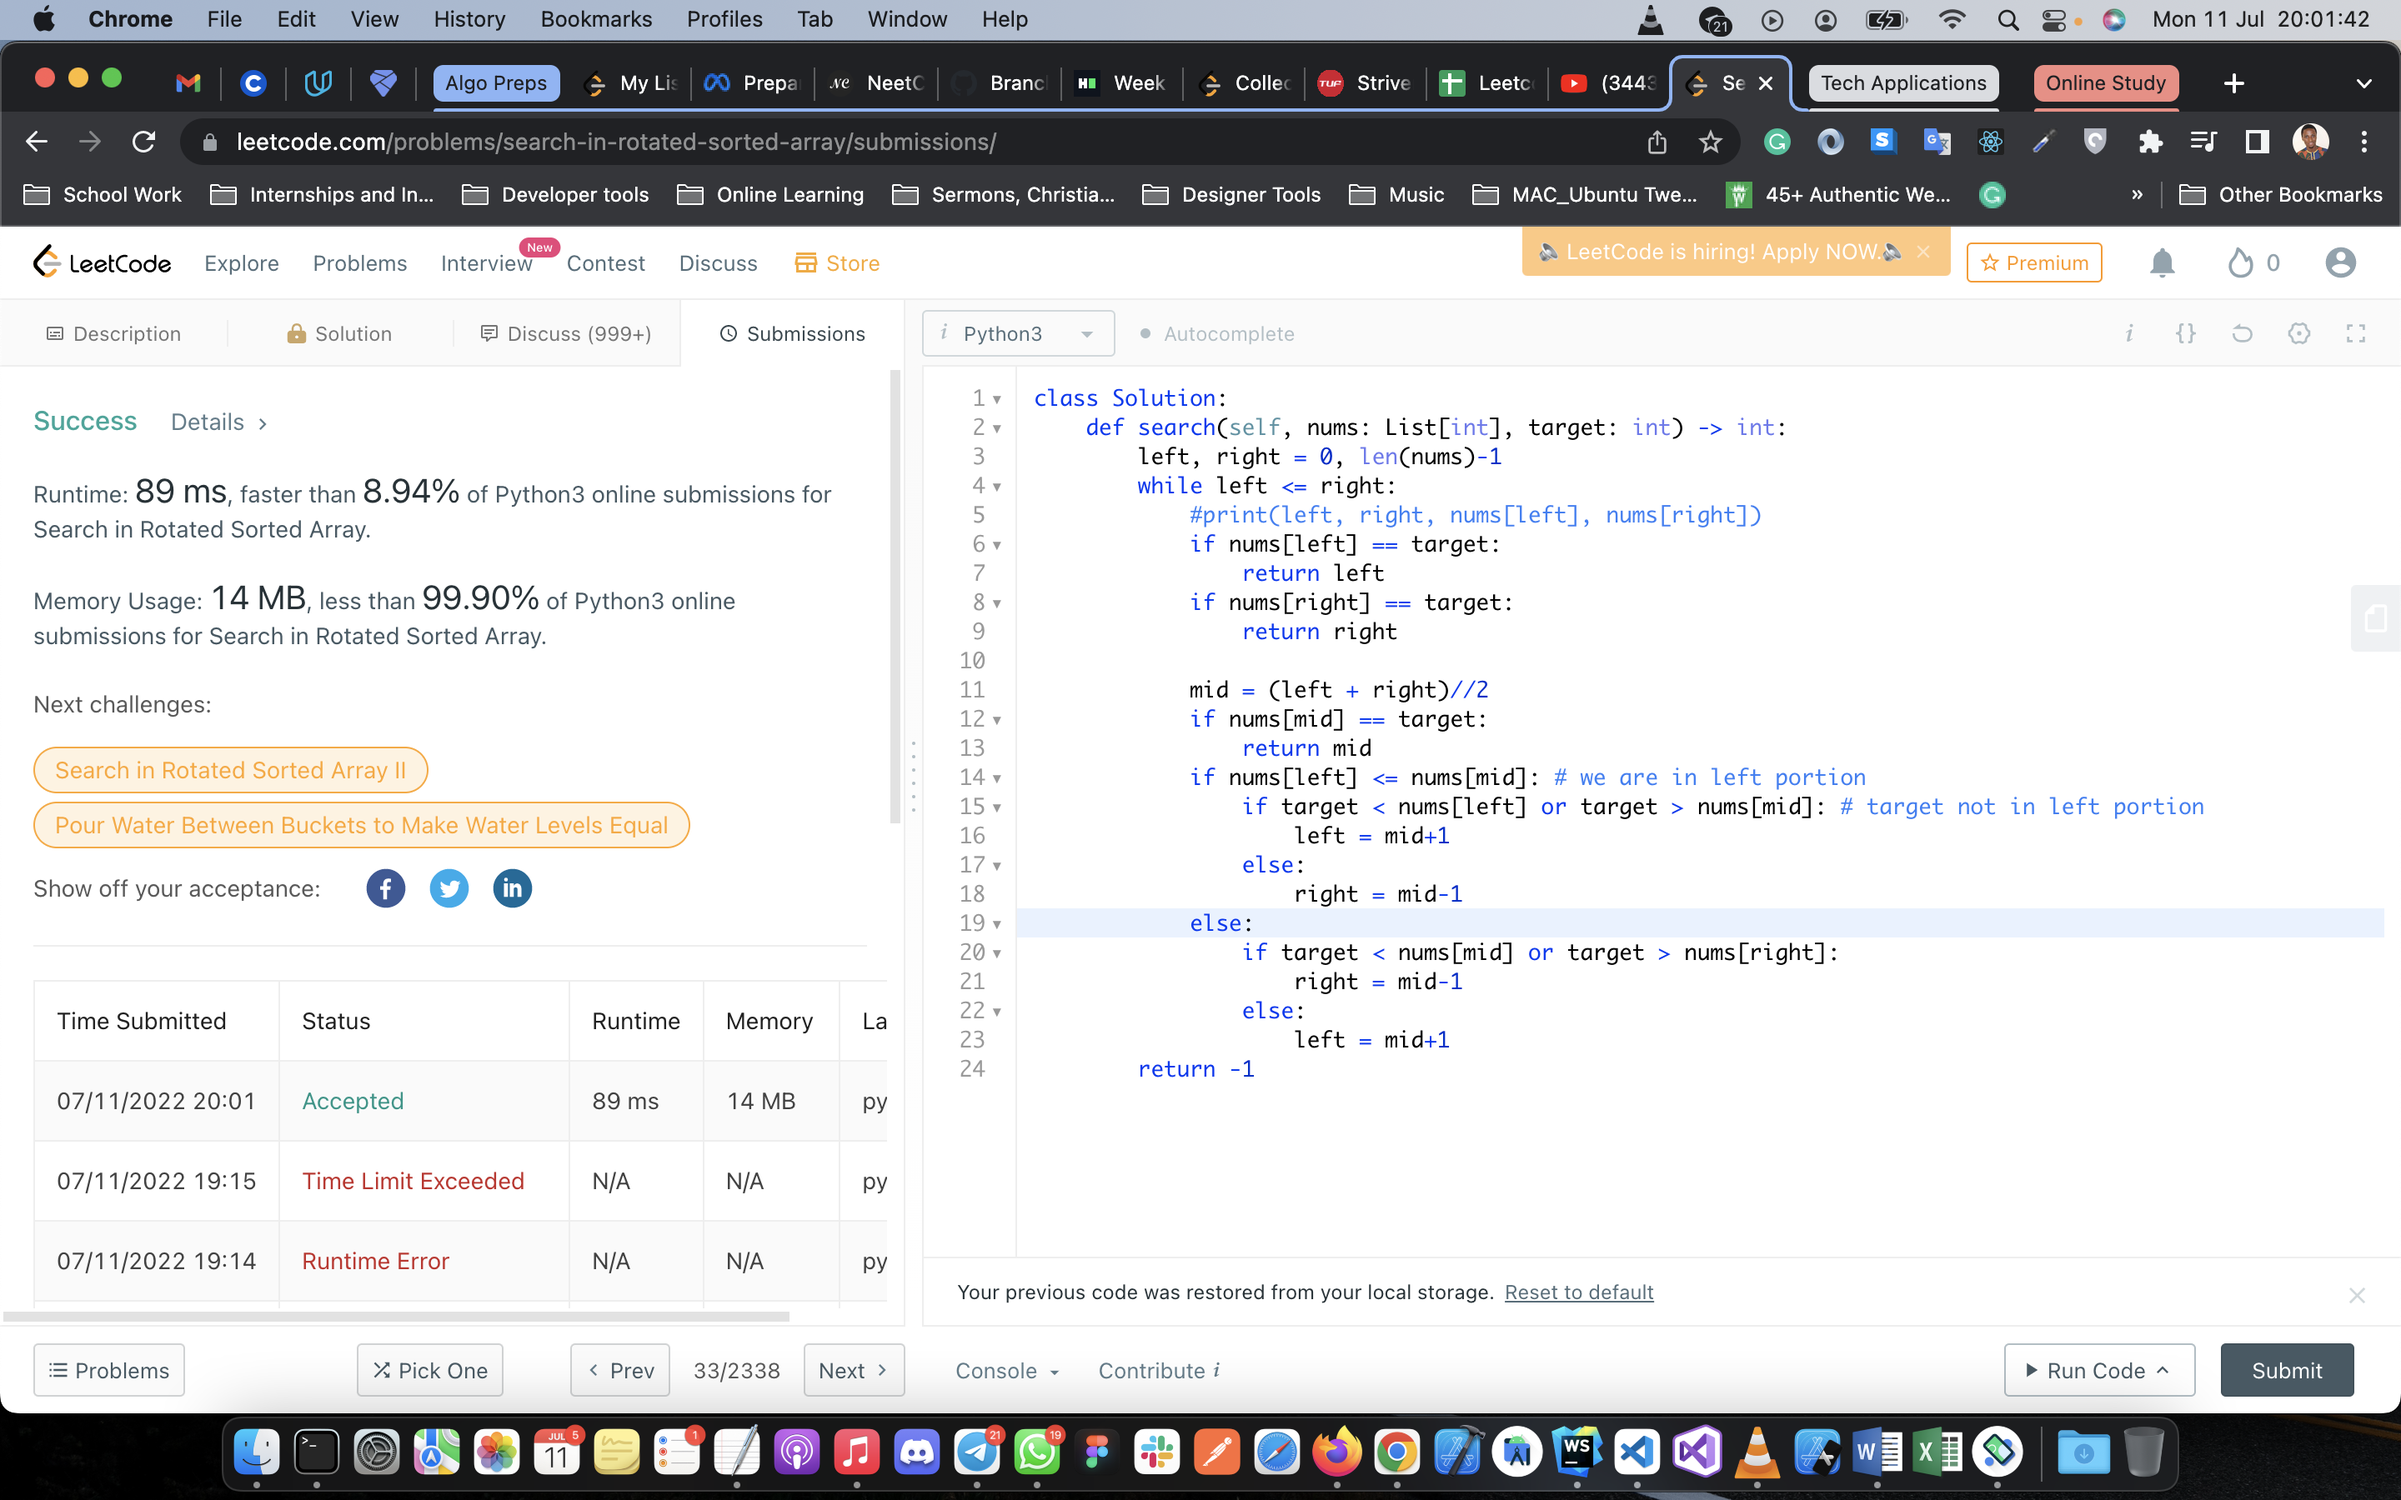
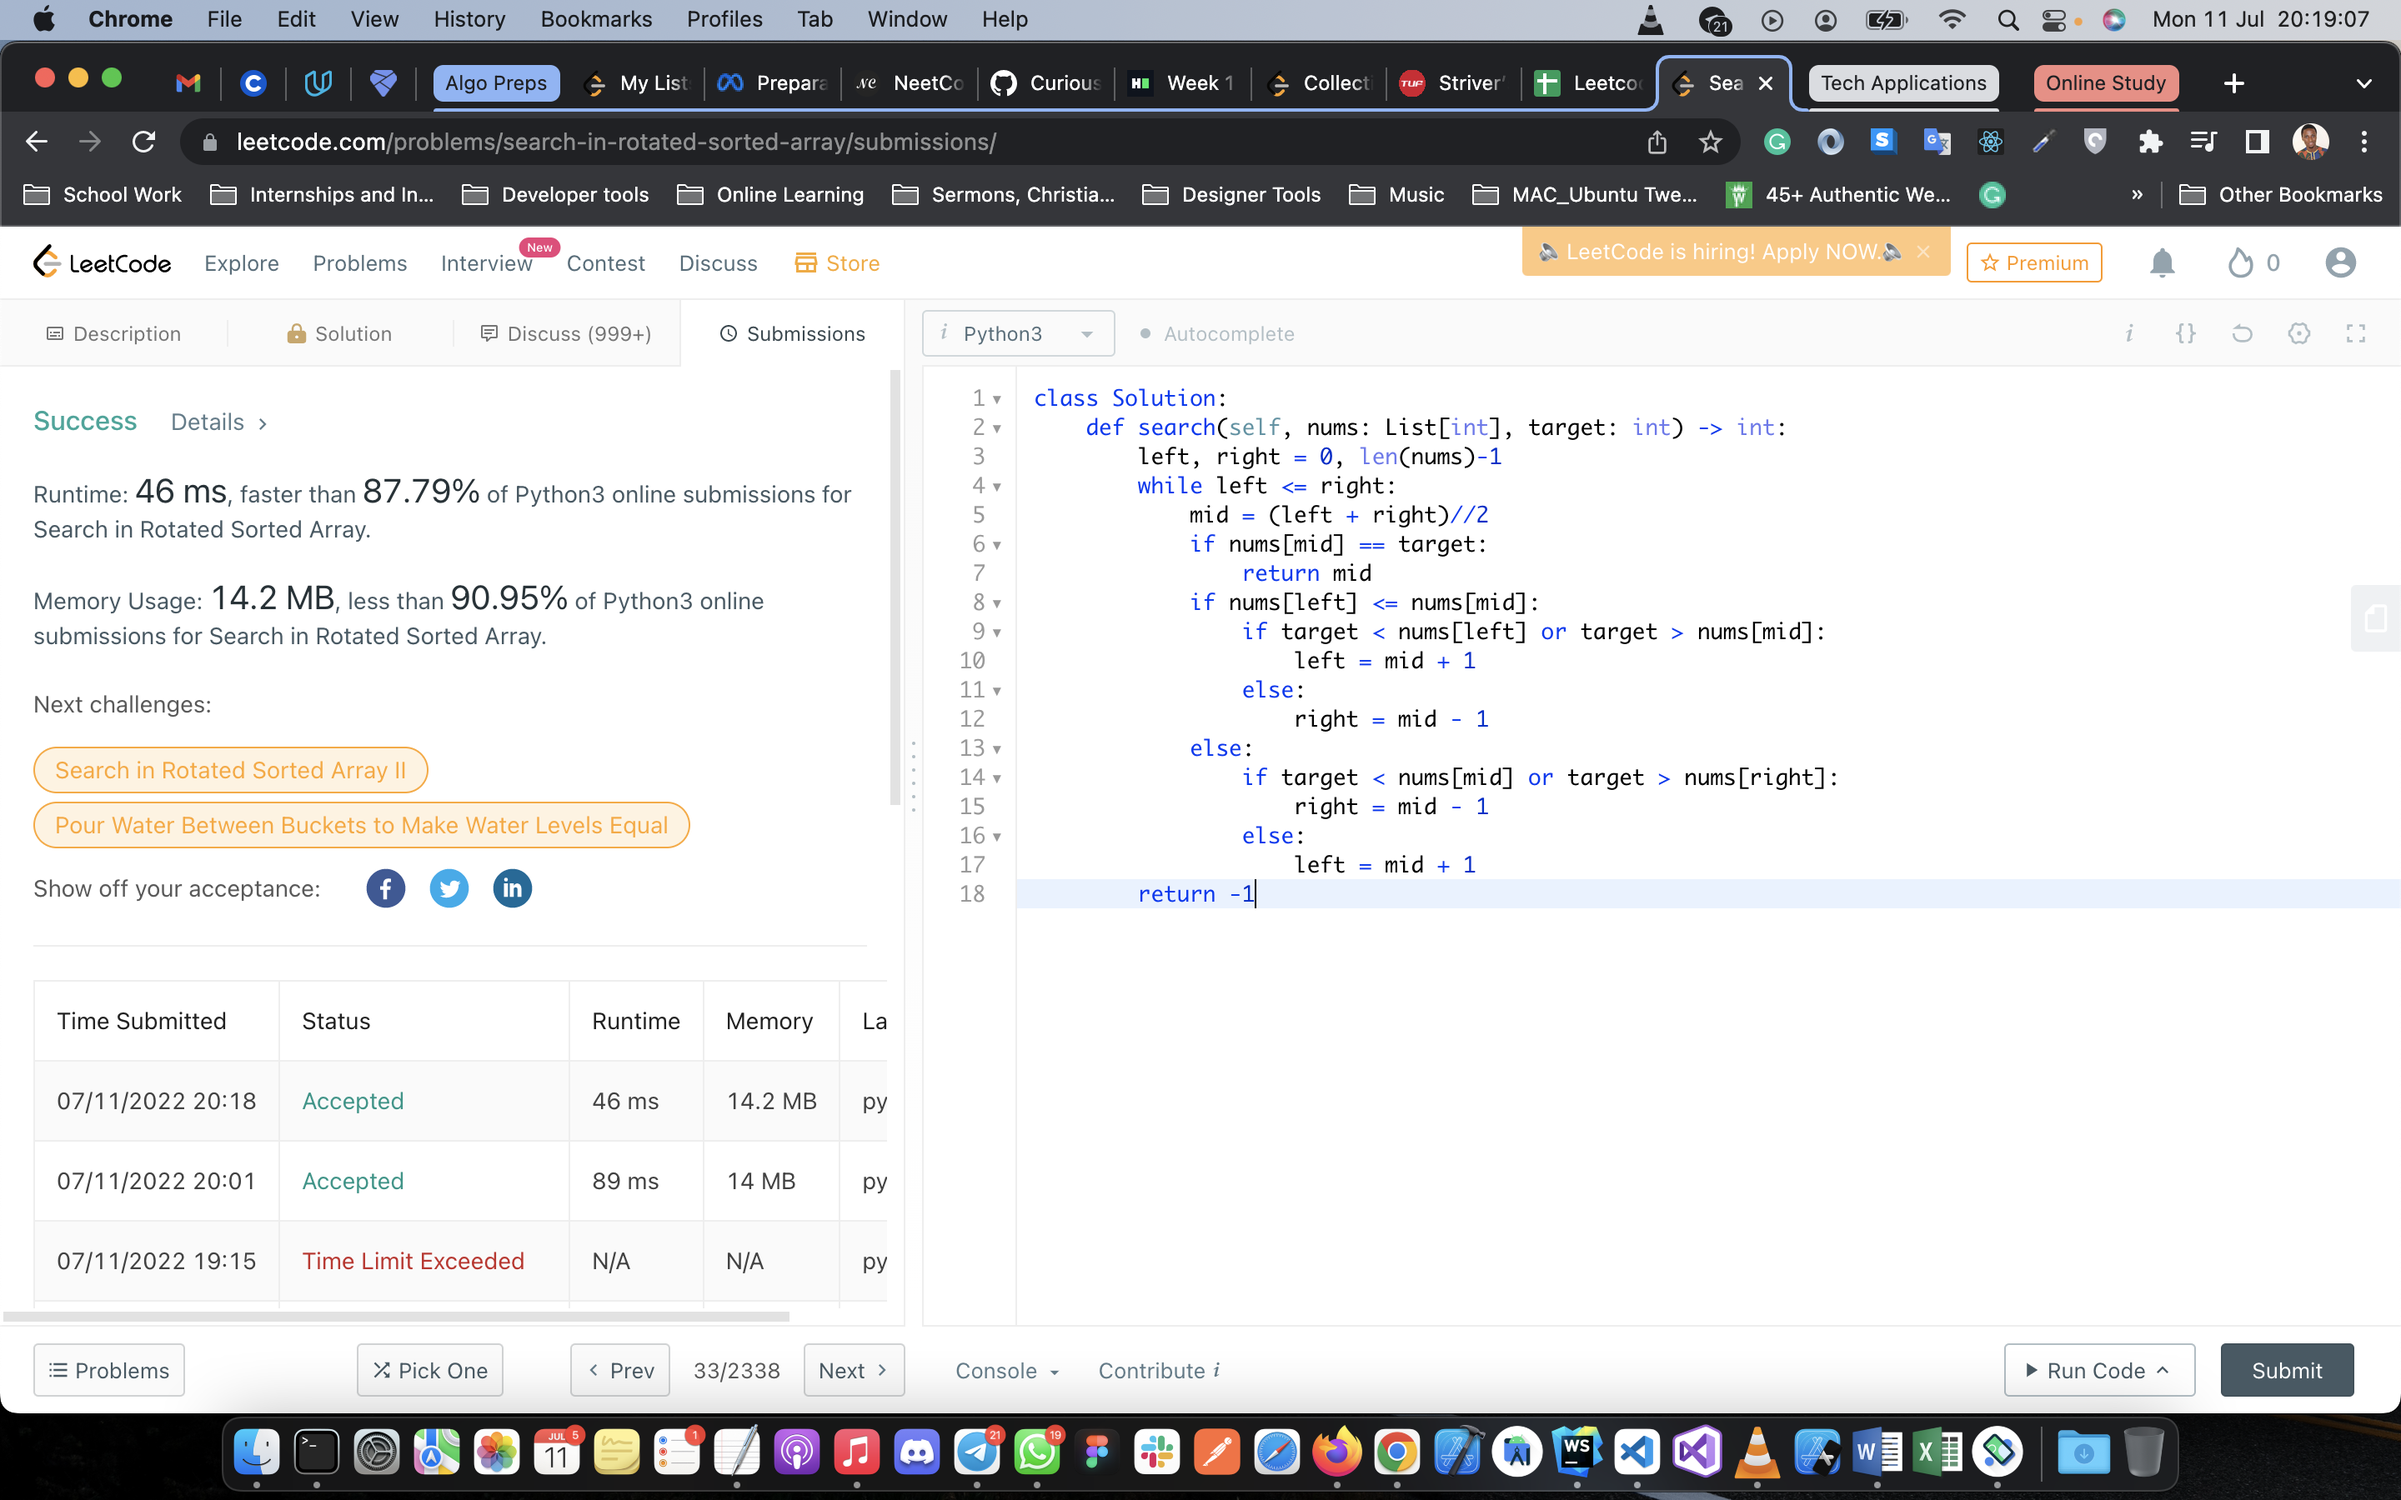
Add files via upload

diff --git a/SolomonAyodeleO/Day8/search-in-rotated-sorted-array.py b/SolomonAyodeleO/Day8/search-in-rotated-sorted-array.py
@@ -5,3 +5,47 @@ class Solution:
             if nums[i] == target:
                 return i
         return -1
+
+
+
+# Approach 2 - using binary search O(log n) with OR condition
+class Solution:
+    def search(self, nums: List[int], target: int) -> int:
+        left, right = 0, len(nums)-1
+        while left <= right: 
+            mid = (left + right)//2
+            if nums[mid] == target:
+                return mid
+            if nums[left] <= nums[mid]: 
+                if target < nums[left] or target > nums[mid]:
+                    left = mid + 1
+                else:
+                    right = mid - 1
+            else:
+                if target < nums[mid] or target > nums[right]:
+                    right = mid - 1
+                else: 
+                    left = mid + 1
+        return -1
+
+# Approach 3 - Same binary search with AND condition
+class Solution:
+    def search(self, nums: List[int], target: int) -> int:
+        left, right = 0, len(nums) - 1
+        while left <= right:
+            pivot = (left + right)//2
+            if nums[pivot] == target:
+                return pivot
+            elif nums[pivot] >= nums[left]:
+                if target >= nums[left] and target < nums[pivot]:
+                    right = pivot - 1
+                else:
+                    left = pivot + 1
+            else:
+                if target <= nums[right] and target > nums[pivot]:
+                    left = pivot + 1
+                else:
+                    right = pivot - 1
+                    
+        return -1
+        
